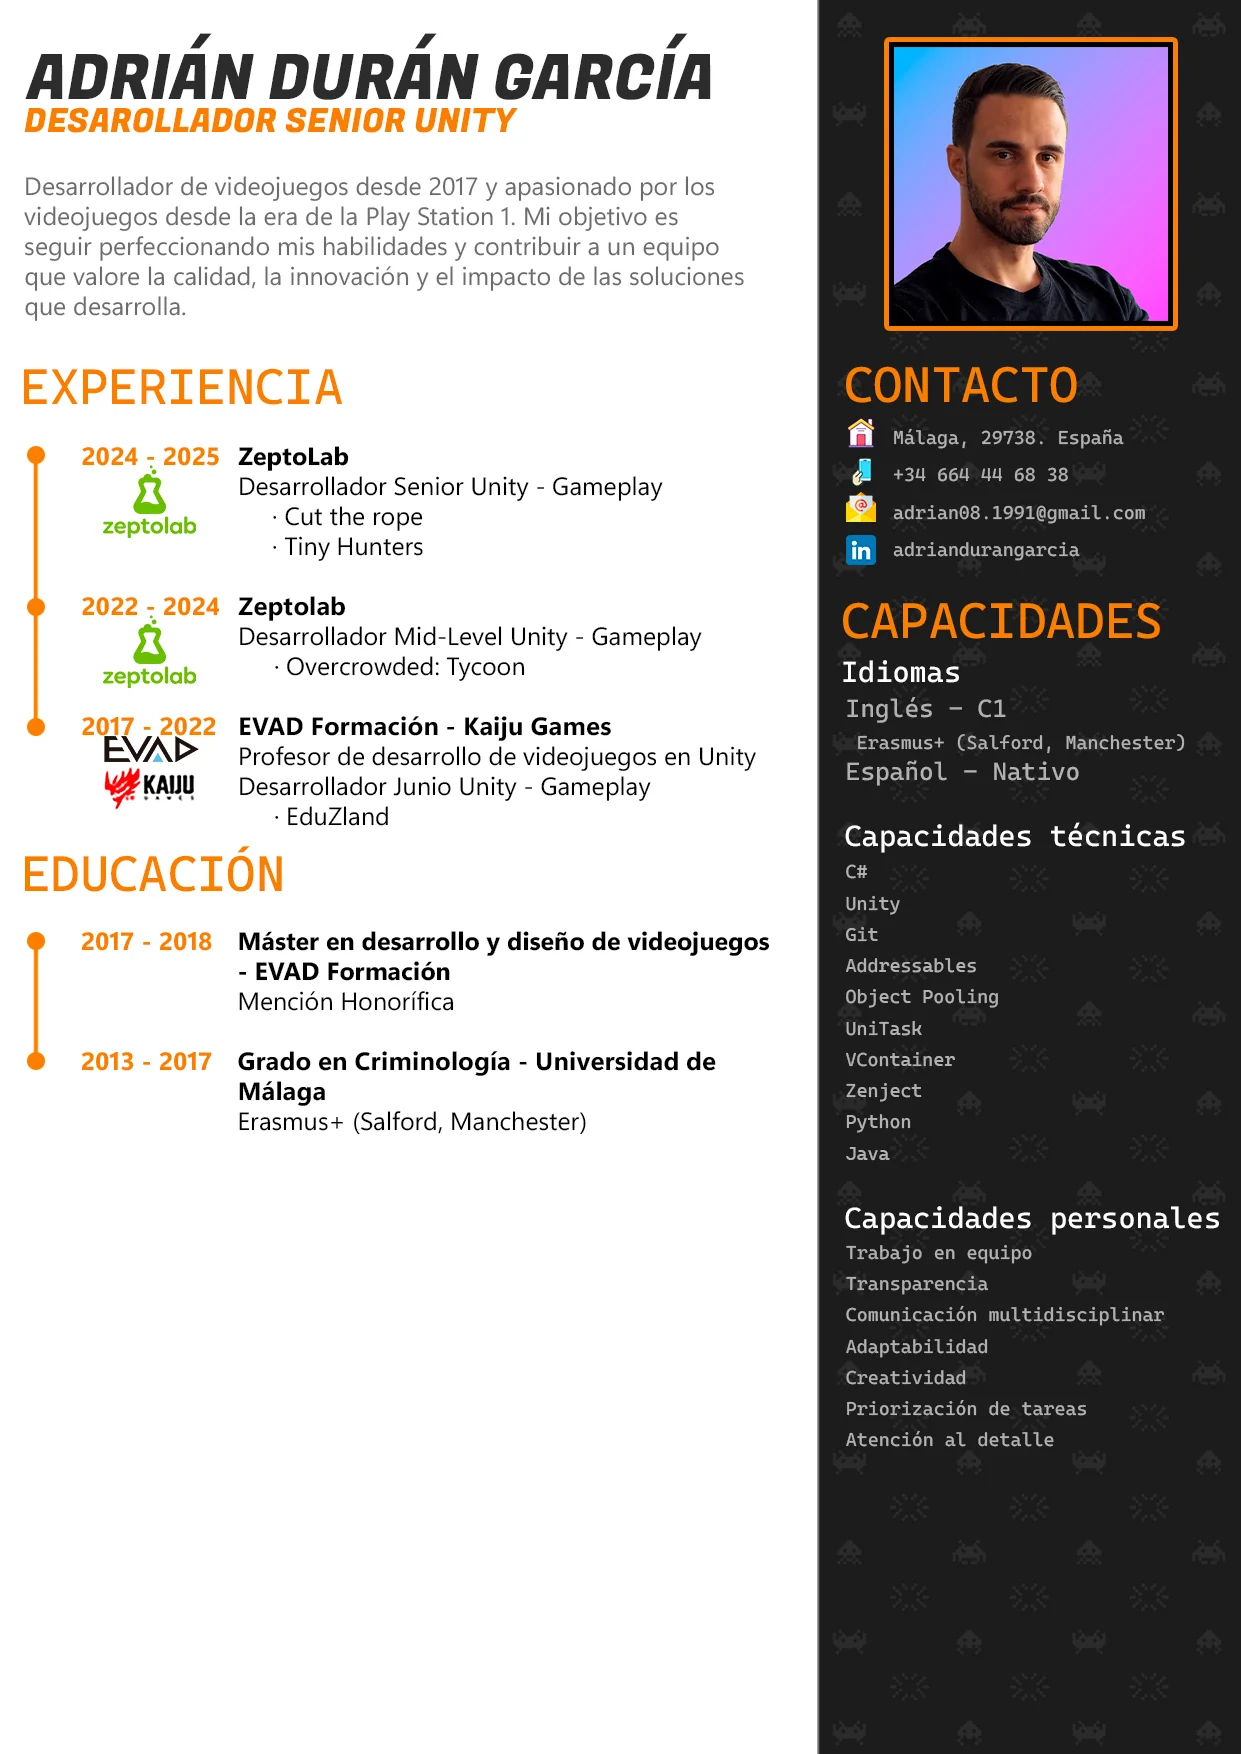
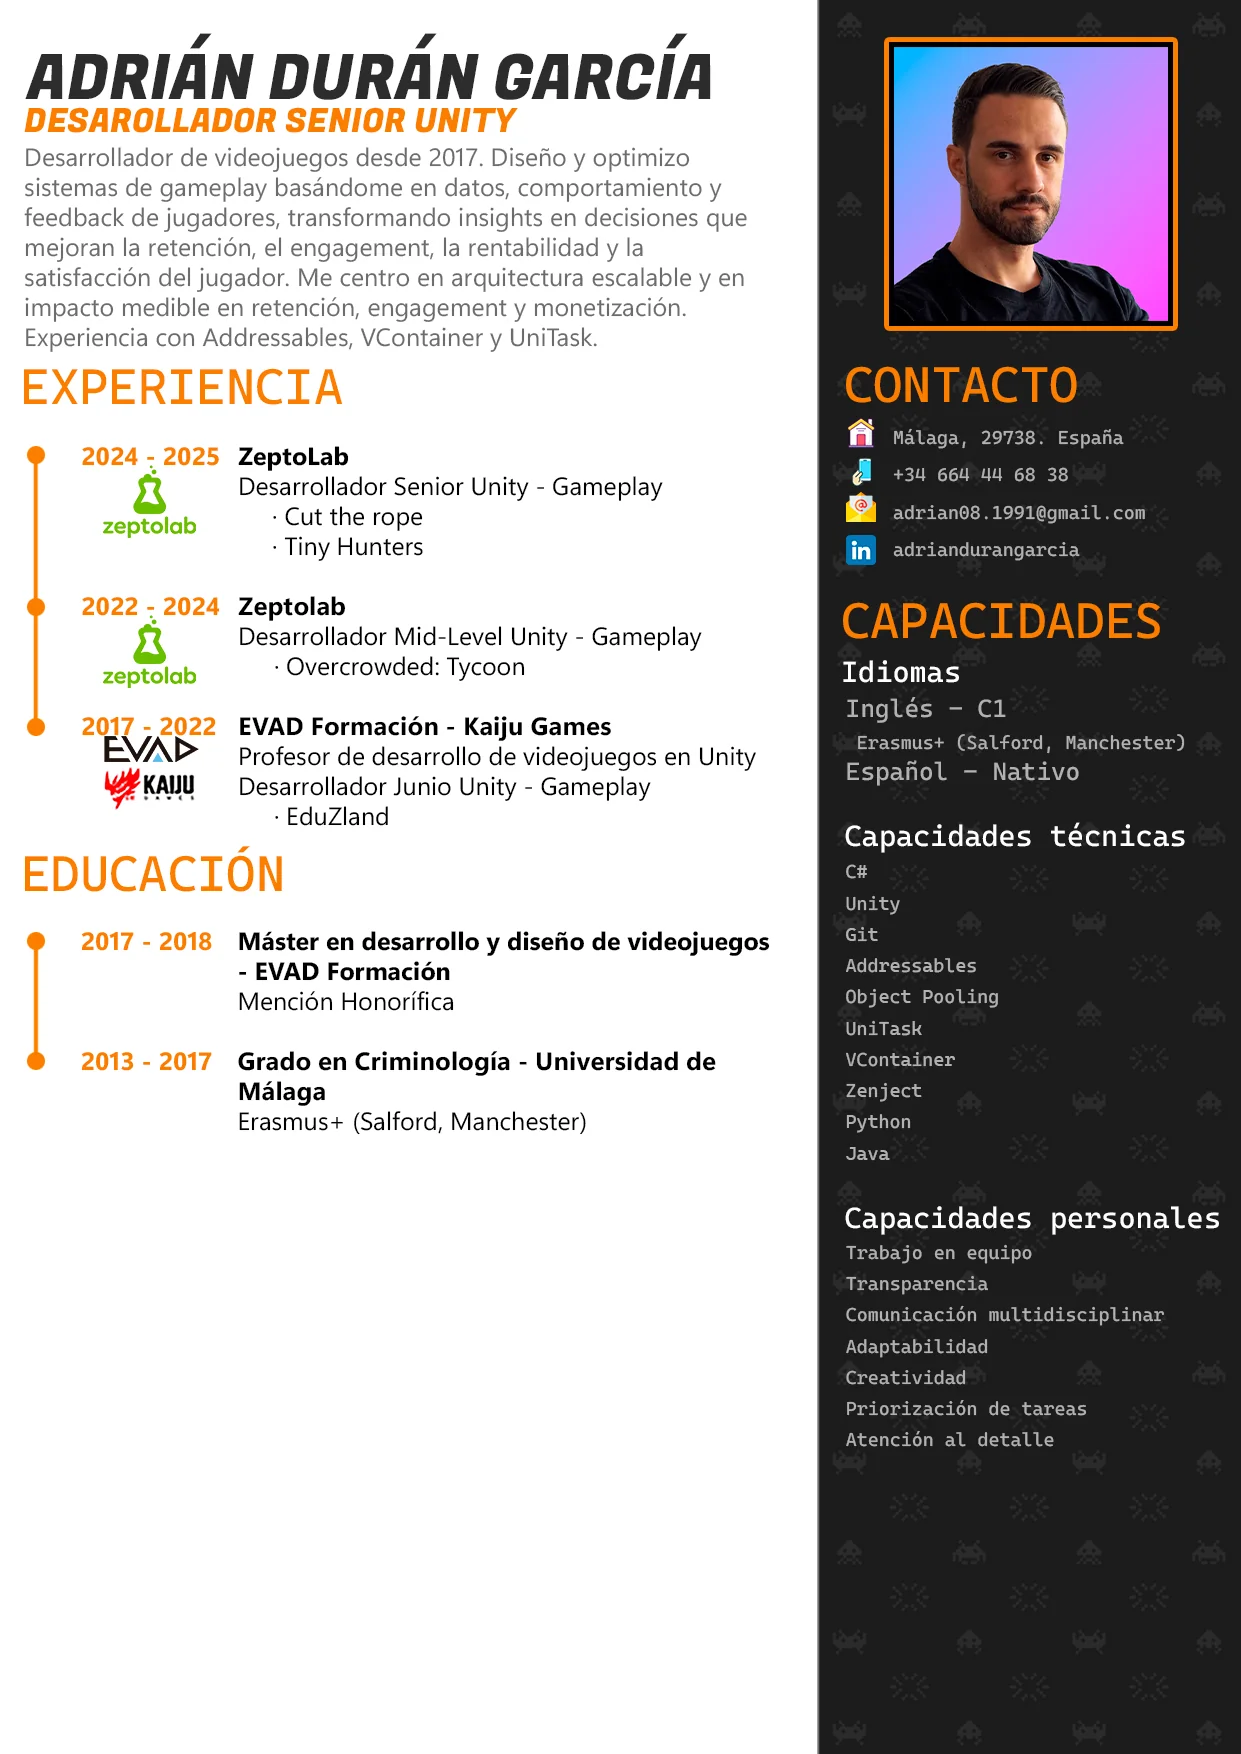
Add robots.txt, canonical tags on all pages, regenerate CV WebP images

Changed region(s): [[0.0, 0.0924, 0.6124, 0.2155]]

diff --git a/Eduzland.html b/Eduzland.html
@@ -16,6 +16,7 @@
         <meta property="og:description" content="Adrián Durán's contributions to Eduzland — minigames, interactive activities and performance optimisation.">
         <meta property="og:image"       content="https://adriplodocus.github.io/Imgs/GamesCaptures/GuysThatRun/1.png">
         <meta name="twitter:card"       content="summary_large_image">
+        <link rel="canonical"           href="https://adriplodocus.github.io/Eduzland.html">
 
         <meta name="theme-color" content="#0d0d11">
         <link rel="preload" href="Fonts/Louis.ttf" as="font" type="font/ttf" crossorigin>

diff --git a/TinyHunters.html b/TinyHunters.html
@@ -16,6 +16,7 @@
         <meta property="og:description" content="Adrián Durán's contributions to Tiny Hunters — gameplay systems, analytics, missions and new hunters.">
         <meta property="og:image"       content="https://adriplodocus.github.io/Imgs/GamesCaptures/GuysThatRun/1.png">
         <meta name="twitter:card"       content="summary_large_image">
+        <link rel="canonical"           href="https://adriplodocus.github.io/TinyHunters.html">
 
         <meta name="theme-color" content="#0d0d11">
         <link rel="preload" href="Fonts/Louis.ttf" as="font" type="font/ttf" crossorigin>

diff --git a/CutTheRope.html b/CutTheRope.html
@@ -16,6 +16,7 @@
         <meta property="og:description" content="Adrián Durán's contributions to Cut the Rope — prototyping, system improvements and platform porting.">
         <meta property="og:image"       content="https://adriplodocus.github.io/Imgs/GamesCaptures/GuysThatRun/1.png">
         <meta name="twitter:card"       content="summary_large_image">
+        <link rel="canonical"           href="https://adriplodocus.github.io/CutTheRope.html">
 
         <meta name="theme-color" content="#0d0d11">
         <link rel="preload" href="Fonts/Louis.ttf" as="font" type="font/ttf" crossorigin>

diff --git a/Overcrowded.html b/Overcrowded.html
@@ -16,6 +16,7 @@
         <meta property="og:description" content="Adrián Durán's contributions to Overcrowded: Tycoon — gameplay features, bigshows, analytics and tutorials.">
         <meta property="og:image"       content="https://adriplodocus.github.io/Imgs/GamesCaptures/OCT/1.png">
         <meta name="twitter:card"       content="summary_large_image">
+        <link rel="canonical"           href="https://adriplodocus.github.io/Overcrowded.html">
 
         <meta name="theme-color" content="#0d0d11">
         <link rel="preload" href="Fonts/Louis.ttf" as="font" type="font/ttf" crossorigin>

diff --git a/PersonalProjects.html b/PersonalProjects.html
@@ -16,6 +16,7 @@
         <meta property="og:description" content="Personal game projects by Adrián Durán: Astra, Bread of the Wild, Geometric Wars and more.">
         <meta property="og:image"       content="https://adriplodocus.github.io/Imgs/GamesCaptures/GeometricWars/1.png">
         <meta name="twitter:card"       content="summary_large_image">
+        <link rel="canonical"           href="https://adriplodocus.github.io/PersonalProjects.html">
 
         <meta name="theme-color" content="#0d0d11">
         <link rel="preload" href="Fonts/Louis.ttf" as="font" type="font/ttf" crossorigin>

diff --git a/index.html b/index.html
@@ -35,6 +35,7 @@
         <meta property="og:description" content="Unity developer with shipped mobile and PC titles. Skilled in Zenject, VContainer, Addressables and scalable game architectures.">
         <meta property="og:image"       content="https://adriplodocus.github.io/Imgs/Me.png">
         <meta name="twitter:card"       content="summary_large_image">
+        <link rel="canonical"           href="https://adriplodocus.github.io/">
 
         <meta name="theme-color" content="#0d0d11">
         <link rel="preload" href="Fonts/Louis.ttf" as="font" type="font/ttf" crossorigin>

diff --git a/CaseStudies.html b/CaseStudies.html
@@ -16,6 +16,7 @@
         <meta property="og:description" content="Production-ready case study games built as company tests: Solitaire, Match3, Game Replicas.">
         <meta property="og:image"       content="https://adriplodocus.github.io/Imgs/GamesCaptures/OCT/1.png">
         <meta name="twitter:card"       content="summary_large_image">
+        <link rel="canonical"           href="https://adriplodocus.github.io/CaseStudies.html">
 
         <meta name="theme-color" content="#0d0d11">
         <link rel="preload" href="Fonts/Louis.ttf" as="font" type="font/ttf" crossorigin>

diff --git a/Tools.html b/Tools.html
@@ -16,6 +16,7 @@
         <meta property="og:description" content="Unity tools by Adrián Durán: Object Pool, Code Snippet Timer, Tickets system, Logger and more.">
         <meta property="og:image"       content="https://adriplodocus.github.io/Imgs/GamesCaptures/OCT/1.png">
         <meta name="twitter:card"       content="summary_large_image">
+        <link rel="canonical"           href="https://adriplodocus.github.io/Tools.html">
 
         <meta name="theme-color" content="#0d0d11">
         <link rel="preload" href="Fonts/Louis.ttf" as="font" type="font/ttf" crossorigin>

diff --git a/CV.html b/CV.html
@@ -16,6 +16,7 @@
         <meta property="og:description" content="Curriculum vitae of Adrián Durán, Unity game developer with shipped mobile and PC titles.">
         <meta property="og:image"       content="https://adriplodocus.github.io/Imgs/Me.png">
         <meta name="twitter:card"       content="summary_large_image">
+        <link rel="canonical"           href="https://adriplodocus.github.io/CV.html">
 
         <meta name="theme-color" content="#0d0d11">
         <link rel="preload" href="Fonts/Louis.ttf" as="font" type="font/ttf" crossorigin>
